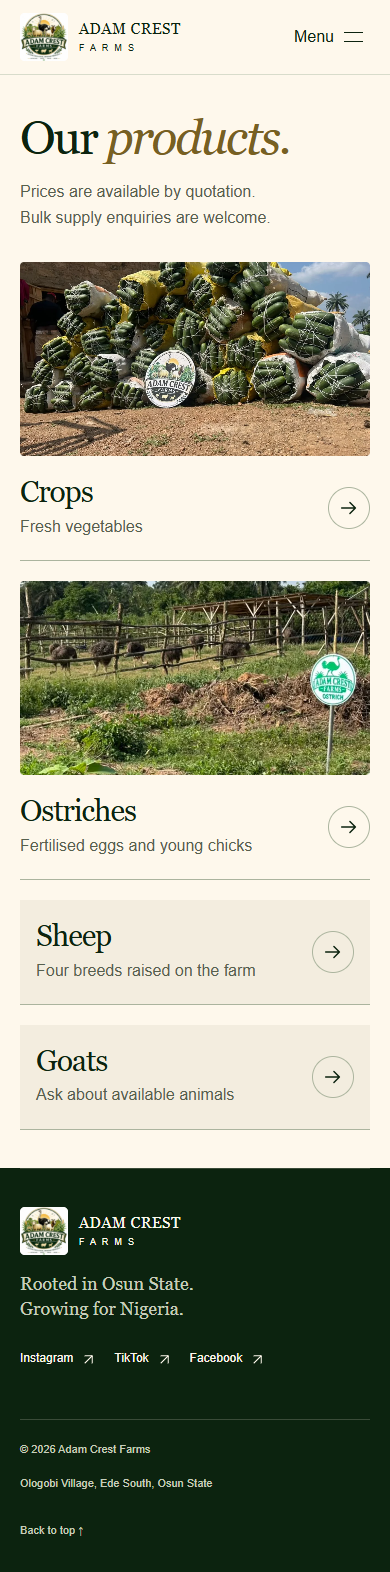
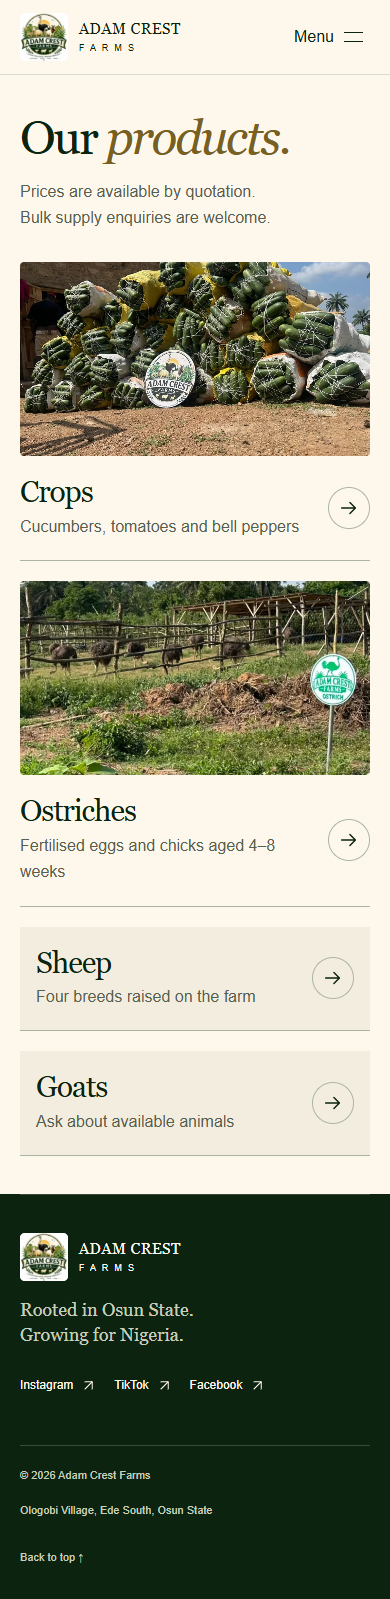
Restore products, farm story and enquiries to the homepage

diff --git a/public/styles.css b/public/styles.css
@@ -104,11 +104,17 @@ h1 em,.story-heading em,.catalogue-heading em,.contact-copy em { color:#776022; 
 .cover-type em { color:var(--highlight); display:block; }
 .cover-type p { margin:27px 0; max-width:32ch; color:#e3e6d6; font-size:clamp(16px,1.3vw,19px); }
 .cover-photo { width:100%; height:auto; aspect-ratio:1.15; object-fit:cover; object-position:8% center; border-radius:48% 48% 2px 2px / 39% 39% 2px 2px; }
-.home-directory { display:grid; grid-template-columns:1fr 1fr; border-bottom:1px solid var(--line); }
-.home-directory a { display:flex; align-items:center; justify-content:space-between; gap:16px; padding:30px 0; font:clamp(21px,2.1vw,32px) Georgia,serif; }
-.home-directory a:first-child { padding-right:clamp(20px,4vw,60px); }
-.home-directory a+a { padding-left:clamp(20px,4vw,60px); border-left:1px solid var(--line); }
-.home-directory a:hover span,.back-link:hover { text-decoration:underline; text-underline-offset:5px; }
+.back-link:hover { text-decoration:underline; text-underline-offset:5px; }
+.home-story { background:var(--soft); }
+.home-story-copy h2 { max-width:13ch; }
+.home-story-copy h2 em { color:#776022; }
+.home-story-copy>p,.home-enquiry-copy>p { max-width:46ch; margin:20px 0; font-size:clamp(16px,1.25vw,19px); color:var(--muted); }
+.story-signoff { display:flex; align-items:center; gap:24px; }
+.story-signoff img { width:60px; height:auto; }
+.story-signoff a,.home-enquiry-copy .text-link { font-weight:600; }
+.home-enquiry { background:var(--forest); color:var(--cream); }
+.home-enquiry-copy>p { color:var(--muted-light); max-width:34ch; }
+.home-enquiry-copy .text-link { color:var(--highlight); }
 .home-journal .section-heading { align-items:center; }
 .journal-feature { background:#fffaf1; }
 .story-heading,.catalogue-heading { margin-bottom:clamp(30px,4vw,56px); }
@@ -128,7 +134,7 @@ h1 em,.story-heading em,.catalogue-heading em,.contact-copy em { color:#776022; 
 .catalogue-entry:hover img { transform:scale(1.025); }
 .ostriches img { object-position:50% 35%; }
 .entry-caption { display:flex; justify-content:space-between; align-items:center; padding:20px 0; gap:16px; }
-.entry-caption h2 { font-size:clamp(30px,3vw,42px); }
+.entry-caption :is(h2,h3) { font-size:clamp(30px,3vw,42px); line-height:1.08; letter-spacing:-.035em; }
 .entry-caption p { margin-top:5px; color:var(--muted); }
 .circle-arrow { border:1px solid #acb59f; border-radius:50%; width:42px; height:42px; display:grid; place-items:center; flex:none; }
 .catalogue-entry:hover .circle-arrow { background:var(--forest); color:var(--cream); }
@@ -173,7 +179,6 @@ h1 em,.story-heading em,.catalogue-heading em,.contact-copy em { color:#776022; 
   .cover-layout { grid-template-columns:1fr; gap:28px; }
   .cover-type h1 { font-size:clamp(56px,10vw,76px); }.cover-type h1 br { display:none; }.cover-type h1 em { display:block; }
   .cover-type p { margin:18px 0 22px; }.cover-photo { aspect-ratio:1.7; border-radius:22% 22% 2px 2px / 37% 37% 2px 2px; }
-  .home-directory a { padding-block:21px; font-size:19px; gap:8px; }.home-directory .icon { width:16px; }
   .section-heading,.catalogue-heading { align-items:start; flex-direction:column; gap:16px; }
   .home-journal .section-heading { align-items:start; gap:0; }
   .journal-feature { grid-template-columns:1fr; gap:18px; padding:20px; }.journal-feature-art { height:180px; }
@@ -186,7 +191,6 @@ h1 em,.story-heading em,.catalogue-heading em,.contact-copy em { color:#776022; 
 }
 @media (max-width:540px) {
   .catalogue-grid { grid-template-columns:1fr; }.catalogue-photo img { aspect-ratio:1.8; }
-  .home-directory { grid-template-columns:1fr; }.home-directory a+a { border-left:0; border-top:1px solid var(--line); padding-left:0; }.home-directory a:first-child { padding-right:0; }
   .footer-base>span:nth-child(2) { width:100%; }
 }
 @media (prefers-reduced-motion:reduce) { html { scroll-behavior:auto; } *,*::before,*::after { animation:none!important; transition:none!important; } }

diff --git a/public/app.js b/public/app.js
@@ -23,12 +23,7 @@
 
   for (const link of document.querySelectorAll('[data-instagram]')) link.href = window.FARM_CONFIG.instagramUrl;
   const form = document.querySelector('#enquiry-form');
-  if (!form) {
-    const moved = { '#enquire': 'enquire', '#offerings': 'offerings', '#our-farm': 'our-farm' };
-    const previousDestination = document.getElementById(moved[window.location.hash]);
-    if (previousDestination instanceof HTMLAnchorElement) window.location.replace(previousDestination.href);
-    return;
-  }
+  if (!form) return;
   const product = document.querySelector('#product');
   const result = document.querySelector('#enquiry-result');
   const message = document.querySelector('#enquiry-message');
@@ -47,6 +42,7 @@
   form.addEventListener('input', () => {
     result.hidden = true;
     status.textContent = '';
+    if (whatsappReady) whatsappLink.href = `https://wa.me/${whatsappNumber}`;
   });
   form.addEventListener('submit', event => {
     event.preventDefault();

diff --git a/README.md b/README.md
@@ -2,7 +2,7 @@
 
 A self-contained Astro website with a Markdown farm journal, a photograph-led farm introduction and a product-enquiry composer. The supplied logo, Option C mascot and established forest/cream/gold palette are retained.
 
-**Local redesign, 24 November 2026.** Home introduces the farm. [Products](dist/products/index.html) opens a catalogue with individual crop, ostrich, sheep and goat pages. Each category links to [Contact](dist/contact/index.html) with that category selected for the enquiry. [About](dist/about/index.html) covers the founding story, location and team. Previous homepage bookmarks lead to the corresponding pages.
+**Local homepage revision, 25 November 2026.** Home introduces the farm, links directly to all four product groups, tells the founding story beside the nursery photograph and lets visitors prepare a quote request. The historical `#offerings`, `#our-farm` and `#enquire` bookmarks open those sections. [Products](dist/products/index.html) shares the homepage product entries. Each detail page links to [Contact](dist/contact/index.html) with the product preselected. [About](dist/about/index.html) covers the founding story, location and team.
 
 The Farm Journal retains its article cards, topic archives and full articles. The homepage features the latest eligible post. The preview includes one labelled draft. Instagram is the available contact channel, and WhatsApp is hidden pending a confirmed number. Everything is local.
 
@@ -55,7 +55,7 @@ npm run test:browser
 
 On other platforms, install the Playwright Chromium browser with npx playwright install chromium and omit BROWSER_CHANNEL. Optional PREVIEW_URL changes the local address used by checks; optional PORT changes the server port. Screenshots and reports are written to docs/review/. Browser checks cover 320 to 1440px layouts, keyboard navigation, no-JavaScript reading, enquiry/copy behaviour, internal links, 404 recovery and common WCAG A/AA issues. Automated scans are not accessibility certification.
 
-The redesign's [desktop homepage](docs/review/multipage/desktop-home.png) and [mobile contact page](docs/review/multipage/mobile-contact.png) show the current layout. See [QA.md](docs/QA.md), [journal screenshot](docs/review/desktop-journal-opening.png) and [article screenshot](docs/review/mobile-article-opening.png).
+The [desktop homepage](docs/review/multipage/desktop-home.png) and [mobile homepage](docs/review/multipage/mobile-home.png) show the current layout. See [QA.md](docs/QA.md), [journal screenshot](docs/review/desktop-journal-opening.png) and [article screenshot](docs/review/mobile-article-opening.png).
 
 ## Repository map
 

diff --git a/docs/QA.md b/docs/QA.md
@@ -1,5 +1,11 @@
 # Local website verification
 
+## Homepage restoration, 25 November 2026
+
+The hero now jumps to four product entries. The nursery photograph and founding story link to About. Home and Contact share the enquiry form. The three original homepage bookmarks now land directly on their sections.
+
+The local review followed all four homepage product links, prepared and copied an ostrich enquiry on Home, and followed a product-specific quote request through Contact. Checks covered five widths from 320 to 1440 pixels, keyboard navigation, JavaScript-disabled fallbacks and opening the site directly from disk. Review images show the full page at [desktop](review/multipage/desktop-home.png) and [phone](review/multipage/mobile-home.png) sizes.
+
 ## Multipage redesign, 24 November 2026
 
 The main navigation now opens Home, Products, About, Farm journal and Contact. The catalogue has four dedicated product pages. Product enquiries pass the selected category to Contact through the URL, including in the direct-file preview.
